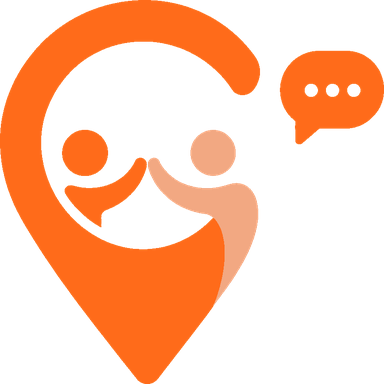
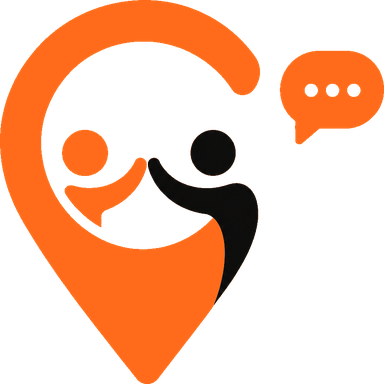
fix(marka): siyah figur sabit - zemine gore yalnizca beyaz ogeler degisiyor
Kullanicinin duzeltmesi: "hayır siyah figür sabit kalacaktı".

Onceki commit'te "koyu olmasın daha açık mat renkler kullan" talimatini
siyah figure de uygulamistim; yanlis anlamisim. Siyah figur markanin
SABIT unsuru: her iki zeminde de okunuyor ve degistirilmiyor. Artik
kaynak logodaki pikselleriyle oldugu gibi kopyalaniyor, boyanmiyor.

Zemine gore degisen tek sey logonun BEYAZ ogeleri (igne ve konusma
balonu); acik zeminde kayboldugu icin turuncuya doner.

  zemin="acik"  -> igne TURUNCU + siyah figur (sayfa zemini #FAF7F3)
  zemin="koyu"  -> igne BEYAZ   + siyah figur (turuncu yuzeyler)

Iki varyantin onizlemesi kullaniciya gonderildi ve onaylandi; acik
zeminde kucuk figurun igneyle ayni renge girmesi kabul edildi
("açık matı unut attıgın görseller doğru görünüyor"), ek renklendirme
YAPILMADI.

`slooin-tasarim` becerisine "Marka isareti" bolumu eklendi: zemine
gore varyant tablosu, siyah figurun sabit oldugu kurali, ve ikonlari
yeniden uretirken maskeleme olcutunun "beyaz mi" degil "zemin
turuncusuna uzak mi" olmasi gerektigi notu - parlakliga bakan bir esik
siyah figuru eleyip isareti yarim birakiyor.

Claude-Session: https://claude.ai/code/session_01LEuPYUXasxU7Pi42c4v5qi

Changed region(s): [[0.375, 0.3125, 0.6875, 0.7812]]

diff --git a/.claude/skills/slooin-tasarim/SKILL.md b/.claude/skills/slooin-tasarim/SKILL.md
@@ -56,6 +56,33 @@ Bunlar kullanicinin verdigi kararlardir; tasarim tercihi degil kisittir.
    dokunuyorsa (konum, ozel mesaj), aydinlatma o ekranin icinde durur -
    ayri bir "sonra" maddesine kaymaz.
 
+## Marka isareti
+
+Logo (2026-08-25) tek isarette uc sey soyluyor: bir KONUM IGNESI,
+icinde IKI INSAN ve bir KONUSMA BALONU - "burada birileri var ve
+konusuyorlar". Kaynak: `tasarim/slooin-logo-kaynak.png`.
+
+Ekranda `<MarkaIsareti zemin="acik|koyu" boyut={96} />` ile kullanilir.
+Isaret ZEMINE GORE uyarlanir (kullanicinin karari):
+
+| Zemin | Igne / balon | Siyah figur |
+|---|---|---|
+| `acik` (sayfa zemini #FAF7F3) | turuncu | **degismez** |
+| `koyu` (turuncu ya da koyu yuzey) | beyaz | **degismez** |
+
+**Siyah figur SABITTIR** - kullanici bunu ayrica duzeltti. Zemine gore
+degisen tek sey logonun BEYAZ ogeleridir; onlar acik zeminde
+kayboldugu icin turuncuya doner. Siyah figur markanin sabit unsuru ve
+her iki zeminde de okunuyor.
+
+Uygulama simgesi (`icon.png`, ana ekranda gorunen) logonun ORIJINAL
+hali kalir: turuncu zemin uzerinde beyaz + siyah. Ona uyarlama
+uygulanmaz.
+
+Ikonlari yeniden uretmek gerekirse maskeleme olcutu "beyaz mi" DEGIL,
+"zemin turuncusuna uzak mi" olmalidir - parlakliga bakan bir esik
+siyah figuru eleyip isareti yarim birakir.
+
 ## Jetonlar
 
 Degerler `mobil/src/tasarim/tema.ts` dosyasindan gelir. Ekranlarda ham
